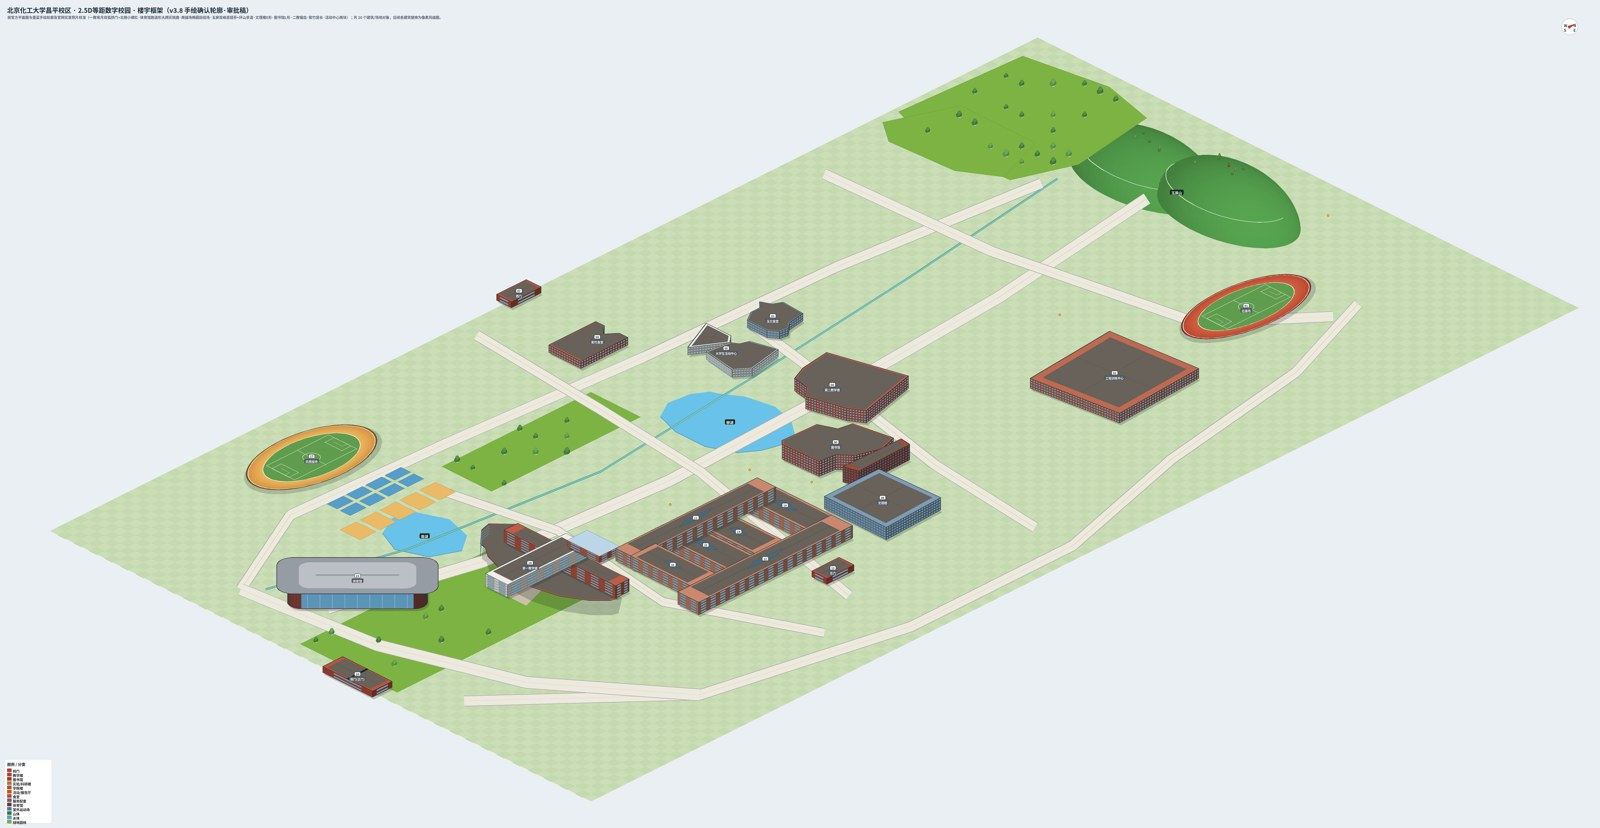
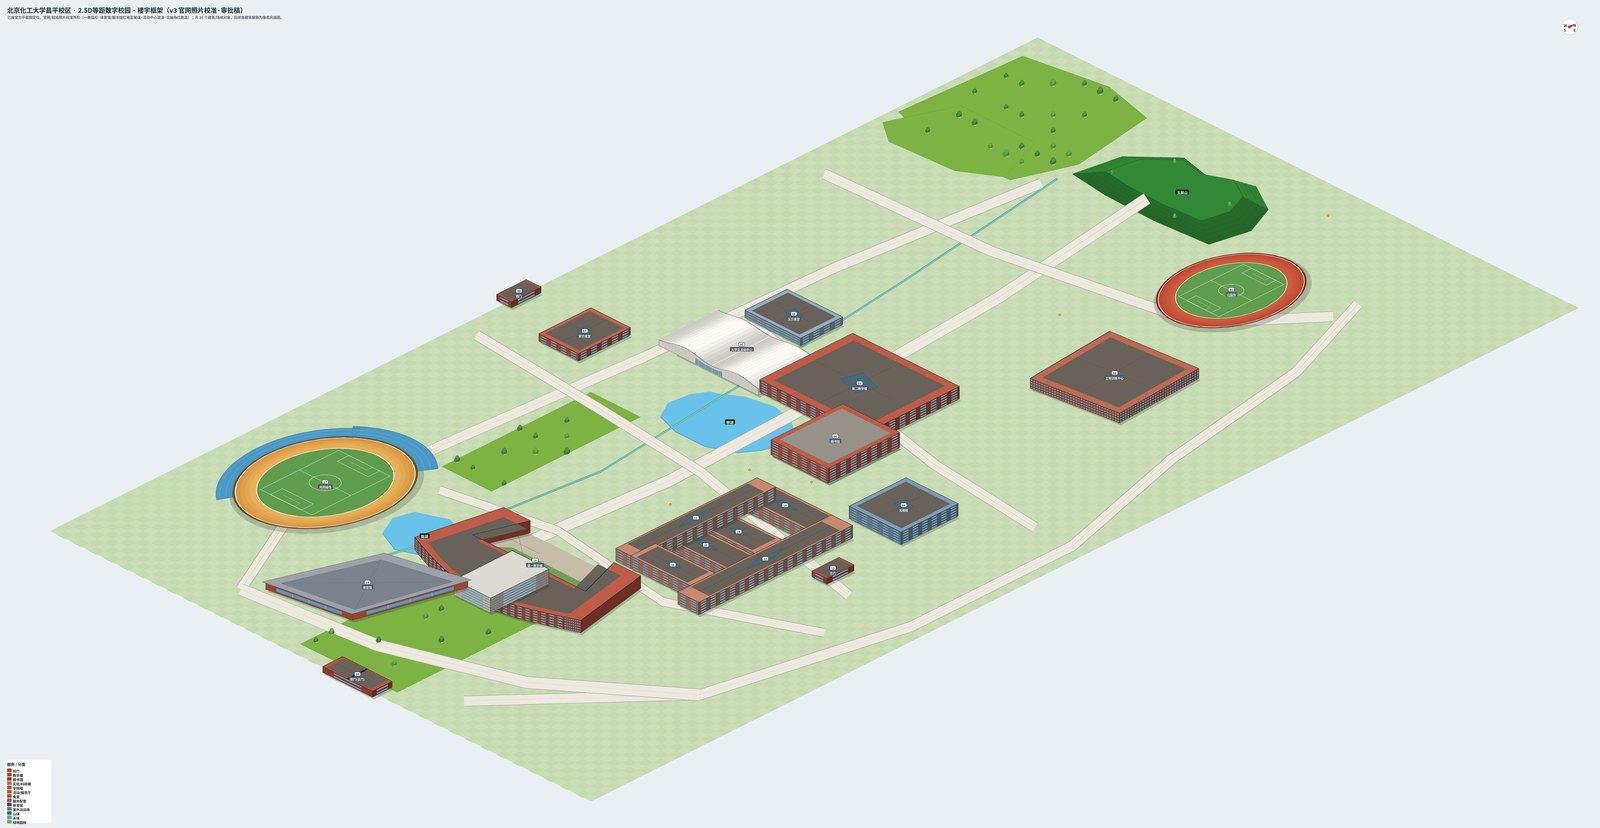
refactor(TEACH-1): 按真实航拍/廊桥照片重构一教为弯月双弧翼+中央缺口+南北双廊桥
- 推翻旧马蹄形U字/南北中央主楼模型（用户手绘+美篇+航拍证实）
- draw_crescent 重写：凸面朝南弯月楼带，中央南北缺口切成A/B两栋独立弧翼
- 两翼各围合内院（环形楼带，非实心）
- 缺口上两座东西向空中廊桥：南为高大门形（白顶盖+格栅+玻璃层+红柱），北为纯玻璃X桁架连廊
- 保留北侧小附楼；前移 as_cw/edge_units_of 工具函数
- 重渲全图/单栋锚点，重跑 catalog/map_data/台账，更新根目录框架稿

diff --git a/02_地图工程/build/render_iso.py b/02_地图工程/build/render_iso.py
@@ -335,6 +335,17 @@ def render():
         return [max(1,round(gw/2.5)), max(1,round(gh/2.5)),
                 max(1,round(gw/2.5)), max(1,round(gh/2.5))]
 
+    # 屏幕多边形环绕方向规范化（标准方块为正面积，负面积反转），供所有异形挤出复用
+    def signed_area(qq):
+        m=len(qq)
+        return sum(qq[i][0]*qq[(i+1)%m][1]-qq[(i+1)%m][0]*qq[i][1] for i in range(m))
+    def as_cw(qq):
+        return qq[::-1] if signed_area(qq)<0 else qq
+    def edge_units_of(qq, k=16):
+        m=len(qq)
+        return [max(1,round(math.hypot(qq[(i+1)%m][0]-qq[i][0],
+                qq[(i+1)%m][1]-qq[i][1])/k)) for i in range(m)]
+
     # ---------- 标准盒体 ----------
     def draw_block(b, st, ovs=None):
         gx,gy,gw,gh=b["grid"]
@@ -470,41 +481,51 @@ def render():
 
     # ---------- 一教：弯月双弧翼 + 中央通透大拱门（凸朝南）----------
     def draw_crescent(b, st):
-        # 一教：A/B座两扇弧形翼（轮廓取自官方平面分割）+ 北连廊 + 中央南北向玻璃主楼
-        # 几何用官方平面 px 坐标（x=东 y=南）
+        # 一教（据官网航拍/廊桥照片+官方平面）：凸面朝南的弯月，中央南北向通道
+        # 把它切成 A(西)、B(东) 两座弧形翼；通道上方由两个一字型廊桥连接——
+        # 北端为架空玻璃连廊（X桁架），南端为高出的门形廊桥（白顶盖+格栅+玻璃层）。
+        # 几何用官方平面 px（x=东 y=南）。
         h=FLOOR_H*st["floors"]
         def P(x,y): return Tp(C.px2gx(x), C.px2gy(y))
-        W_A=[(307,657),(309,665),(320,677),(325,678),(333,684),(354,691),(354,649),(318,647)]
-        W_B=[(355,691),(376,691),(394,687),(409,679),(418,670),(419,666),
-             (408,652),(370,650),(370,653),(365,656),(360,653),(360,649),(355,649)]
-        def pp(pts): return [P(x,y) for x,y in pts]
-        # 庭院铺装（两扇叶之间，南开口）
-        d.polygon([P(352,656),P(353,698),P(378,698),P(364,656)],
-                  fill=(202,192,172), outline=(178,168,148))
-        # 挤出两扇弧翼
+        # 中央缺口通道：x354-369（南北向，南开口）
+        GAP_L,GAP_R=354,369
+        # A座（西弧翼）、B座（东弧翼），外轮廓取自官方平面颜色分割
+        W_A=[(354,648),(318,647),(306,658),(308,664),(321,678),(326,679),(333,685),(354,690)]
+        W_B=[(369,648),(409,652),(416,661),(424,661),(424,672),(416,672),(409,679),
+             (395,687),(378,691),(369,690)]
+        # 两翼内院（弯月楼带围合的内庭院，轮廓取自颜色分割）
+        Y_A=[(318,656),(319,663),(331,673),(339,677),(347,676),(346,657)]
+        Y_B=[(377,678),(387,679),(393,677),(405,669),(407,661),(380,660),(377,670)]
+        # 中央通道 + 两翼内院地面铺装（先于楼体画在地面，浅色庭院）
+        d.polygon([P(353,646),P(370,646),P(370,696),P(353,696)],
+                  fill=(206,196,176), outline=(178,168,148))
+        for ypts in (Y_A,Y_B):
+            d.polygon([P(x,y) for x,y in ypts], fill=(200,194,178), outline=(182,174,156))
+        # 挤出 A/B 两座弧翼
         for pts in (W_A,W_B):
-            q=pp(pts)
+            q=as_cw([P(x,y) for x,y in pts])
             extrude_poly(d, q, h, st["wall"], floors=st["floors"],
-                         edge_units=[1]*len(q), glass=GLASS, roof_facilities=False)
-        # 外弧可见立面水平条窗（西翼前6点、东翼索引1-6为外弧）
-        for pts,ar in ((W_A,range(0,6)),(W_B,range(1,6))):
-            q=pp(pts)
-            for i in ar:
-                A=q[i]; B=q[i+1]
-                if B[0]-A[0] >= -0.5: continue
-                win=(102,134,156) if (B[1]-A[1])>0 else (122,152,172)
-                for f in range(1,st["floors"]):
-                    d.line([(A[0],A[1]-h*f/st["floors"]),(B[0],B[1]-h*f/st["floors"])],
-                           fill=win, width=3)
-        # 北连廊（横跨两扇叶北端，y647-654，红墙平顶）
-        link=[P(318,645),P(408,645),P(408,656),P(318,656)]
-        extrude_poly(d, link, h*0.98, st["wall"], floors=st["floors"],
-                     edge_units=[8,2,8,2], glass=GLASS, roof_facilities=False)
-        # 中央南北向玻璃主楼（白色，北端略突出、向南伸入庭院）
-        main=[P(346,634),P(364,634),P(364,699),P(346,699)]
-        extrude_poly(d, main, h*1.02, (226,224,218), floors=st["floors"],
-                     edge_units=[2,5,2,5], glass=GLASS, parapet=True, lw=2,
-                     roof_facilities=False)
+                         edge_units=edge_units_of(q), glass=GLASS, roof_facilities=False)
+        # 屋顶上画出内院（浅白采光/庭院下沉区 + 深色内侧墙），形成环形楼带
+        for ypts in (Y_A,Y_B):
+            q=[P(x,y) for x,y in ypts]
+            top=[(x,y-h) for x,y in q]
+            d.polygon(top, fill=(216,216,208), outline=(112,108,100))
+        # 北廊桥：架空玻璃连廊（缺口北端，X桁架通透，下部架空）
+        nbr=[P(354,646),P(369,646),P(369,659),P(354,659)]
+        extrude_poly(d,nbr,h*0.44,(150,186,202),floors=2,edge_units=[1,1,1,1],
+                     glass=GLASS_L,parapet=False,lw=2,z_base=h*0.40,
+                     roof=(186,210,220),roof_facilities=False)
+        # 南廊桥：高大门楼（南开口）——通透玻璃层 + 高出两翼的白色实体顶盖
+        sbr=[P(352,678),P(371,678),P(371,691),P(352,691)]
+        # 下部玻璃层（约3-4层，门洞上方通透）
+        extrude_poly(d,sbr,h*0.32,(150,186,202),floors=1,edge_units=[1,1,1,1],
+                     glass=GLASS_L,parapet=False,lw=2,z_base=h*0.54,
+                     roof=(186,210,220),roof_facilities=False)
+        # 白色实体顶盖（格栅门楼，明显高出两翼屋顶）
+        extrude_poly(d,sbr,h*0.28,(226,224,218),floors=1,edge_units=[1,1,1,1],
+                     glass=None,parapet=True,lw=3,z_base=h*0.90,
+                     roof=(228,228,222),roof_facilities=False)
         # 北环路南侧、一教北缘外的低矮小横杠（官方图黑箭头所指的小矩形附楼）
         bx0,by0,bwp,bdp=347,618,26,16
         bar=[P(bx0,by0),P(bx0+bwp,by0),P(bx0+bwp,by0+bdp),P(bx0,by0+bdp)]
@@ -514,7 +535,7 @@ def render():
                      edge_units=[2,2,2,2], glass=GLASS, parapet=True, lw=2,
                      roof_facilities=False)
         d.polygon([(x,y-bh) for x,y in bar], fill=(188,214,232),outline=GLASS_DK)
-        c=iso(C.px2gx(355), C.px2gy(672))
+        c=iso(C.px2gx(365), C.px2gy(668))
         return (c[0]+OX,c[1]+OY-h)
 
     # ---------- 体育馆：旋转胶囊（圆角矩形大跨）+ 平顶红墙 ----------
@@ -745,16 +766,6 @@ def render():
         return (cx,cy-h)
 
     # ---------- 通用：倾斜矩形（泰瑞楼，poly 平面）----------
-    def signed_area(qq):
-        m=len(qq)
-        return sum(qq[i][0]*qq[(i+1)%m][1]-qq[(i+1)%m][0]*qq[i][1] for i in range(m))
-    def as_cw(qq):
-        return qq[::-1] if signed_area(qq)<0 else qq
-    def edge_units_of(qq, k=16):
-        m=len(qq)
-        return [max(1,round(math.hypot(qq[(i+1)%m][0]-qq[i][0],
-                qq[(i+1)%m][1]-qq[i][1])/k)) for i in range(m)]
-
     def draw_polyblock(b, st):
         gp=b["gpoly"]; h=FLOOR_H*st["floors"]
         pts=as_cw([Tp(x,y) for x,y in gp])
